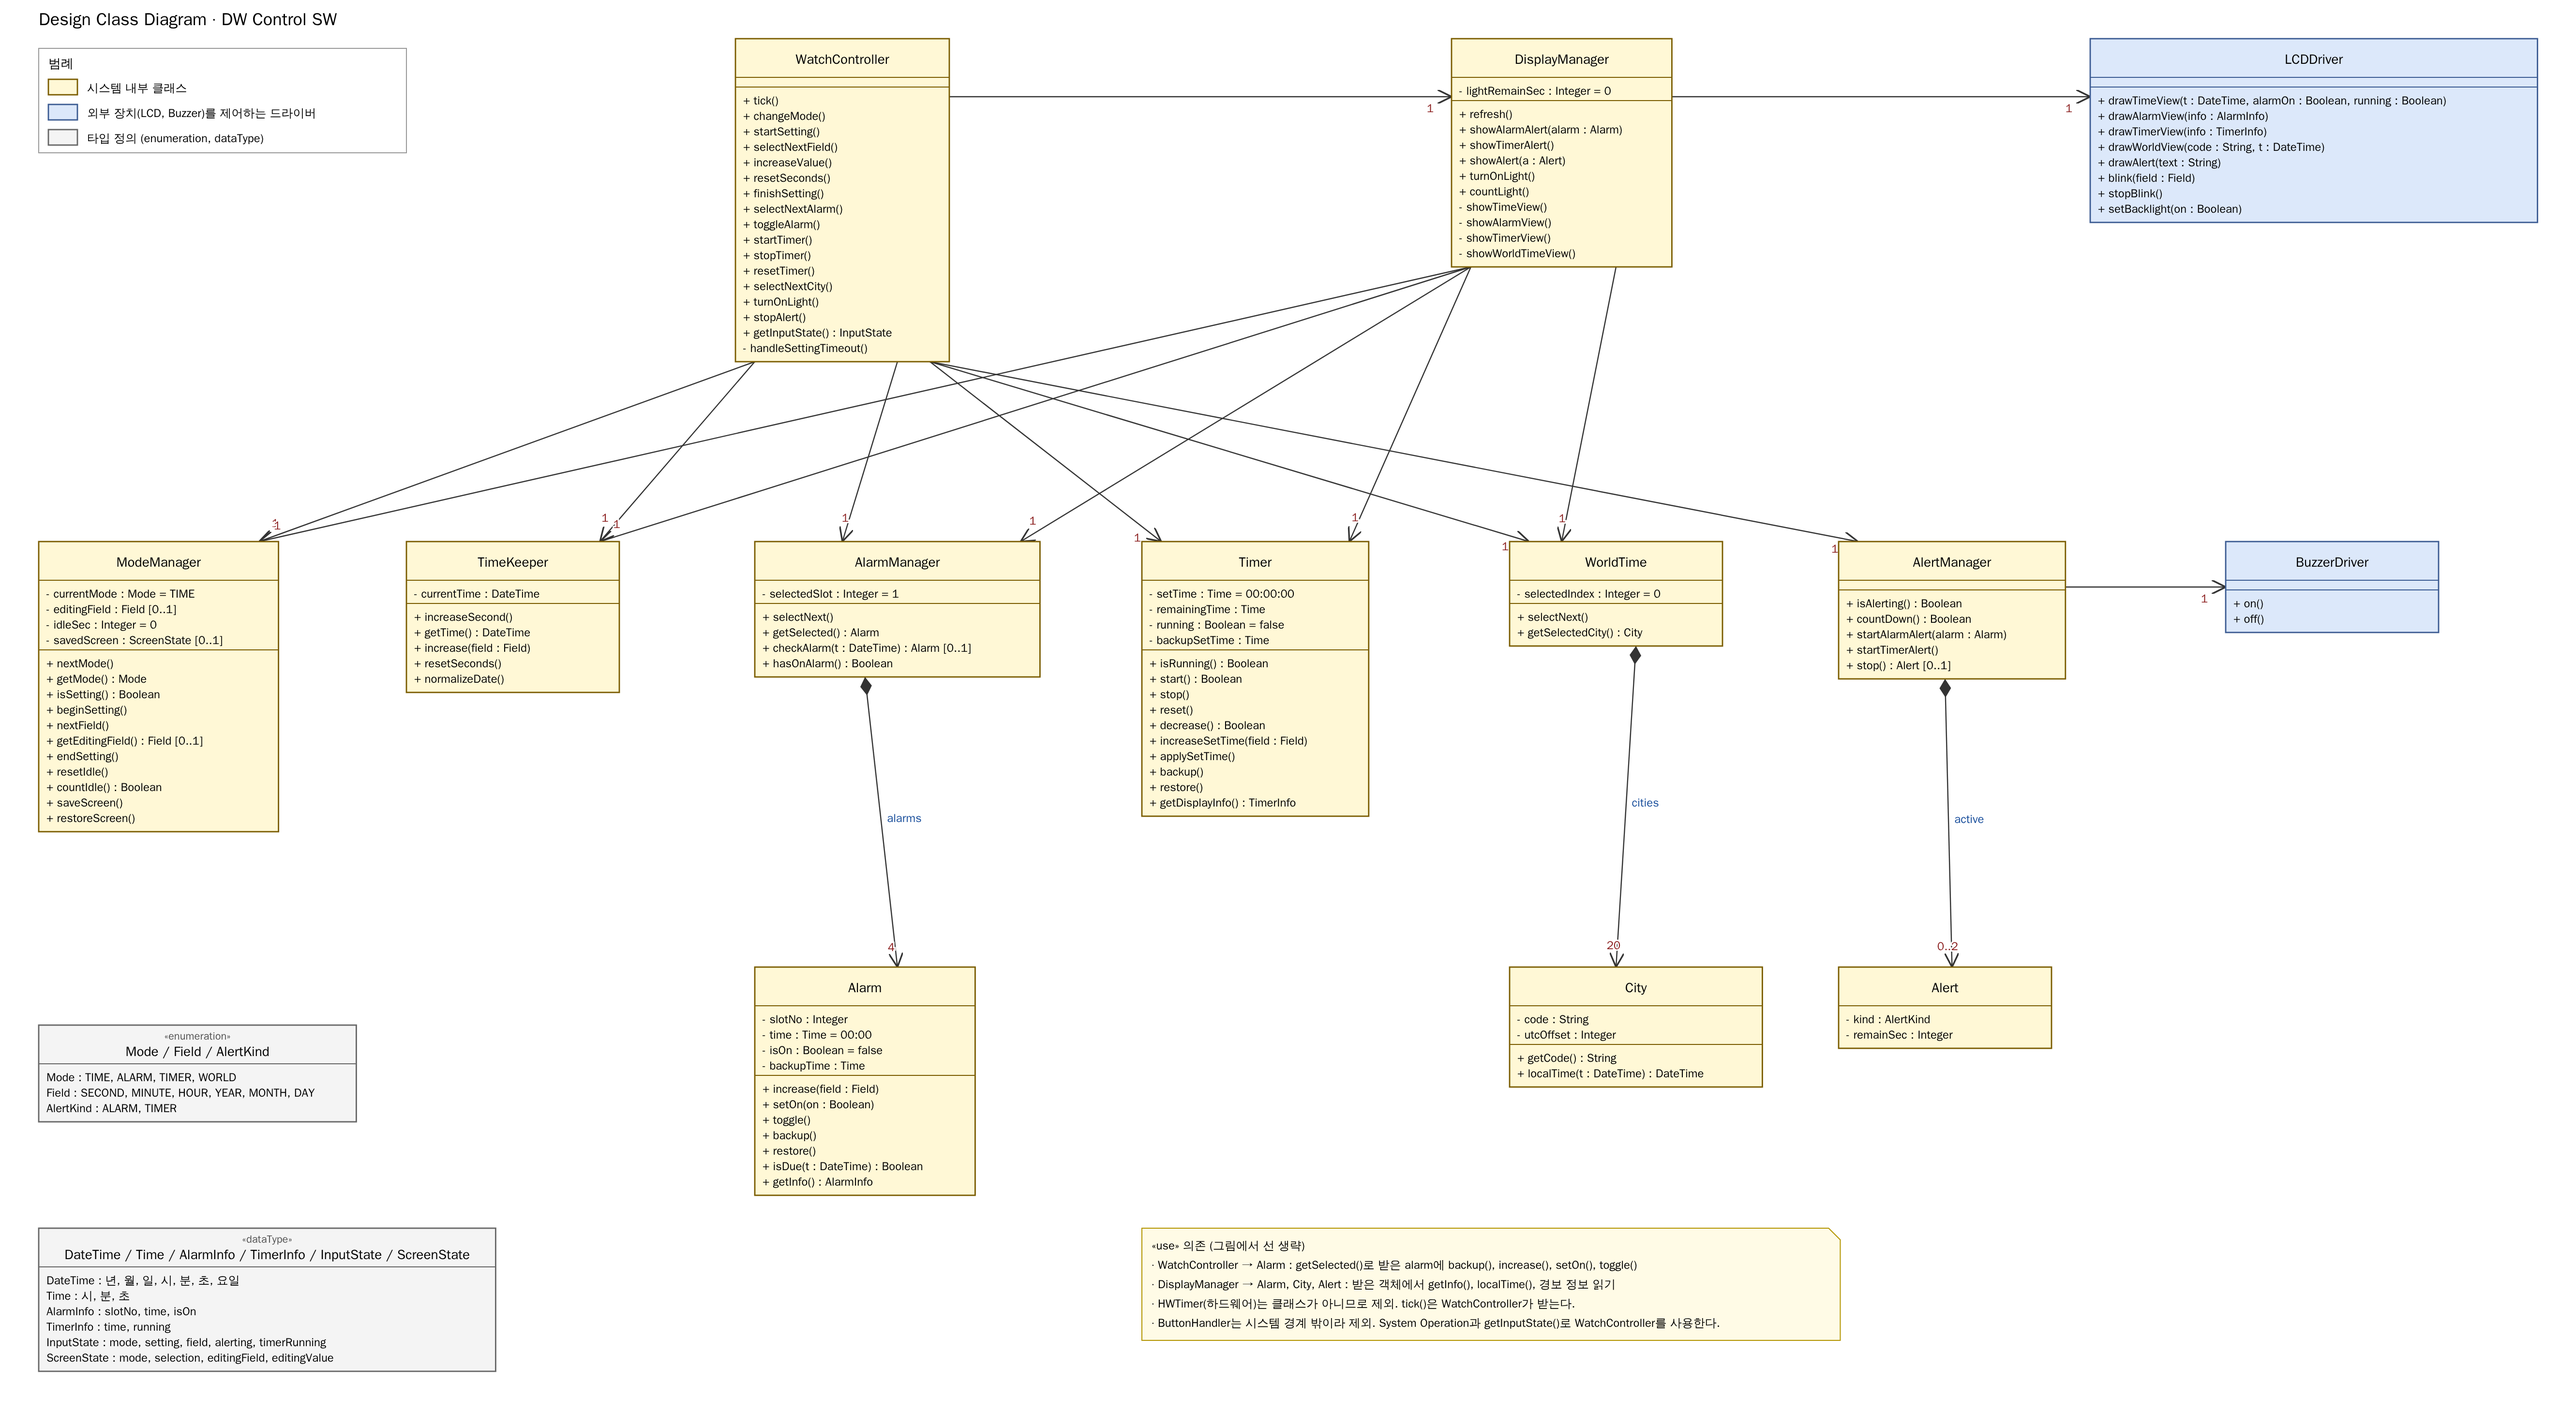
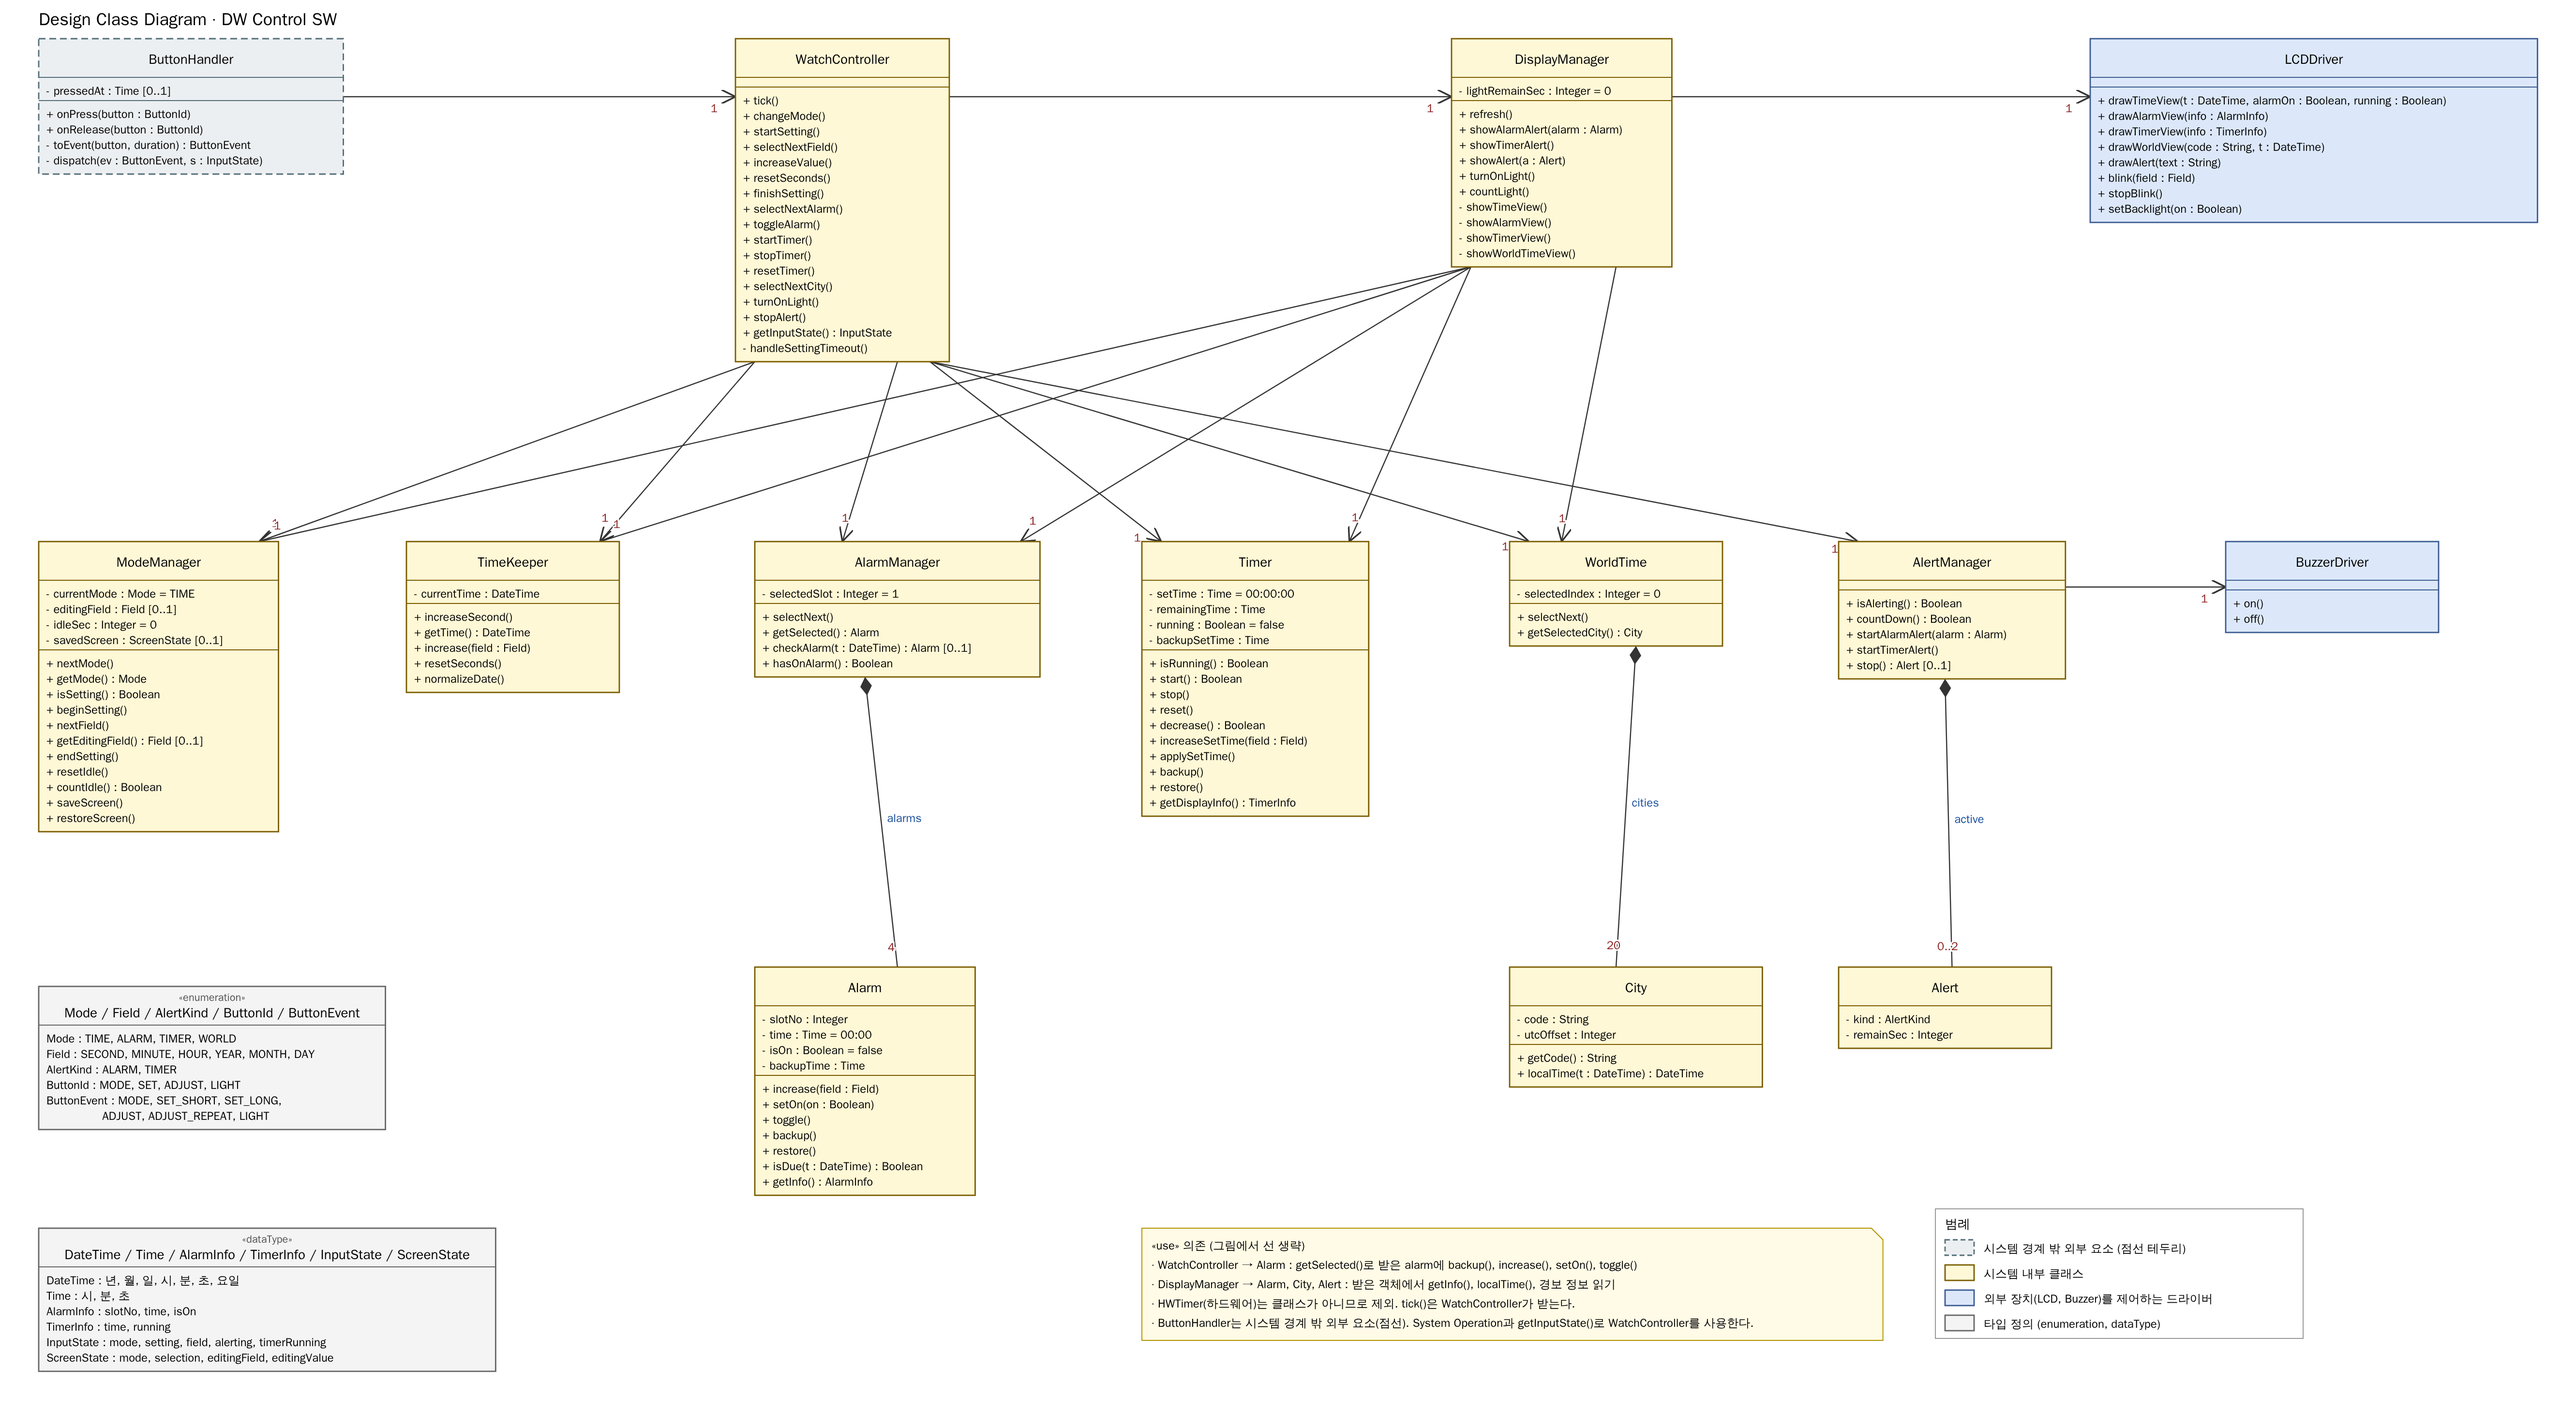
Restore ButtonHandler in DCD as external element; drop arrowheads on composition lines
Claude-Session: https://claude.ai/code/session_01QzoU77NBfd4KbyvbPRCZW3

diff --git a/docs/OOAD/practice/DigitalWatch_UseCases.md b/docs/OOAD/practice/DigitalWatch_UseCases.md
@@ -497,13 +497,13 @@ System Operation은 **15개**다.
 ![Design Class Diagram](dcd/DigitalWatch_DesignClassDiagram.png)
 
 - 편집용 원본: [dcd/DigitalWatch_DesignClassDiagram.drawio](dcd/DigitalWatch_DesignClassDiagram.drawio) · 벡터 이미지: [SVG](dcd/DigitalWatch_DesignClassDiagram.svg)
-- 교재 Class Diagram(슬라이드 279)처럼 클래스에 스테레오타입을 붙이지 않았다. 타입 정의 상자의 `«enumeration»`, `«dataType»`은 UML 키워드다. 시스템 밖의 `ButtonHandler`와 하드웨어 `HWTimer`는 넣지 않았다.
-- 색 구분: 노란색은 시스템 내부 클래스, **파란색은 외부 장치(LCD, Buzzer)를 제어하는 드라이버**(`LCDDriver`, `BuzzerDriver`), 회색은 타입 정의다(그림 왼쪽 위 범례).
+- 교재 Class Diagram(슬라이드 279)처럼 클래스에 스테레오타입을 붙이지 않았다. 타입 정의 상자의 `«enumeration»`, `«dataType»`은 UML 키워드다. 하드웨어 `HWTimer`는 클래스가 아니라서 넣지 않았다. 시스템 경계 밖의 `ButtonHandler`는 SD와 이어지도록 넣되, 회색 점선 테두리로 구분했다.
+- 색 구분: 회색 점선은 시스템 경계 밖 외부 요소(`ButtonHandler`), 노란색은 시스템 내부 클래스, **파란색은 외부 장치(LCD, Buzzer)를 제어하는 드라이버**(`LCDDriver`, `BuzzerDriver`), 회색은 타입 정의다(그림 왼쪽 위 범례).
 - 10장 Sequence Diagram에 나온 메시지를 받는 쪽 클래스의 operation으로 모았다(슬라이드 178: SD에서 Class Diagram을 반복적으로 도출).
 - 표기(슬라이드 142 ~ 164):
   - 가시성: `+` public, `-` private. 속성은 `이름 : 타입 [다중성] = 기본값`.
   - 데이터 타입(`DateTime`, `Time`, `Mode` 등)은 속성 텍스트로, 다른 클래스 참조는 **탐색 방향이 있는 연관선**(열린 화살표)으로 그렸다.
-  - 전체-부분 관계(AlarmManager–Alarm 4, WorldTime–City 20, AlertManager–Alert 0..2)는 컴포지션(◆)으로 그렸다.
+  - 전체-부분 관계(AlarmManager–Alarm 4, WorldTime–City 20, AlertManager–Alert 0..2)는 컴포지션(◆)으로 그렸다. 전체 쪽 마름모만 그리고 부분 쪽 화살표는 생략했다.
   - SD에 나오지 않는 getter/setter는 넣지 않았다(슬라이드 154).
   - 반환값으로 받은 객체를 잠깐 쓰는 «use» 의존(WatchController → Alarm 등)은 선이 다른 클래스를 가로질러 그림 안 메모로 대신했다.
 
